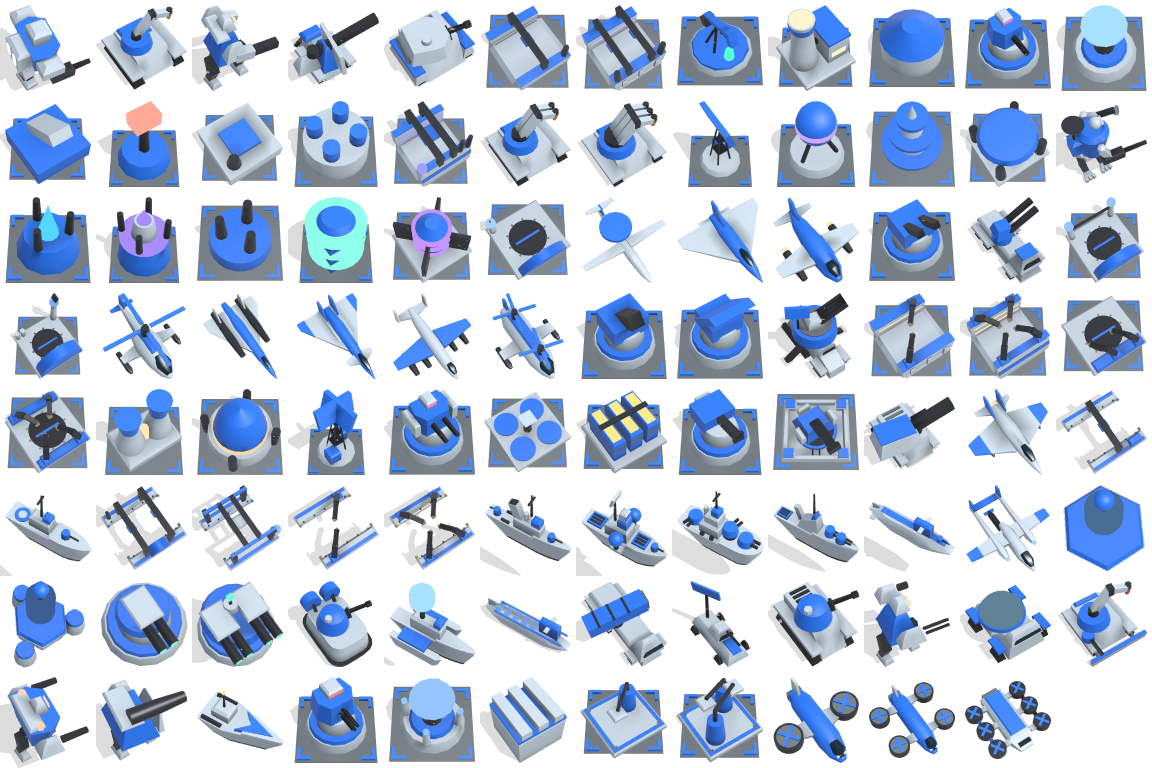
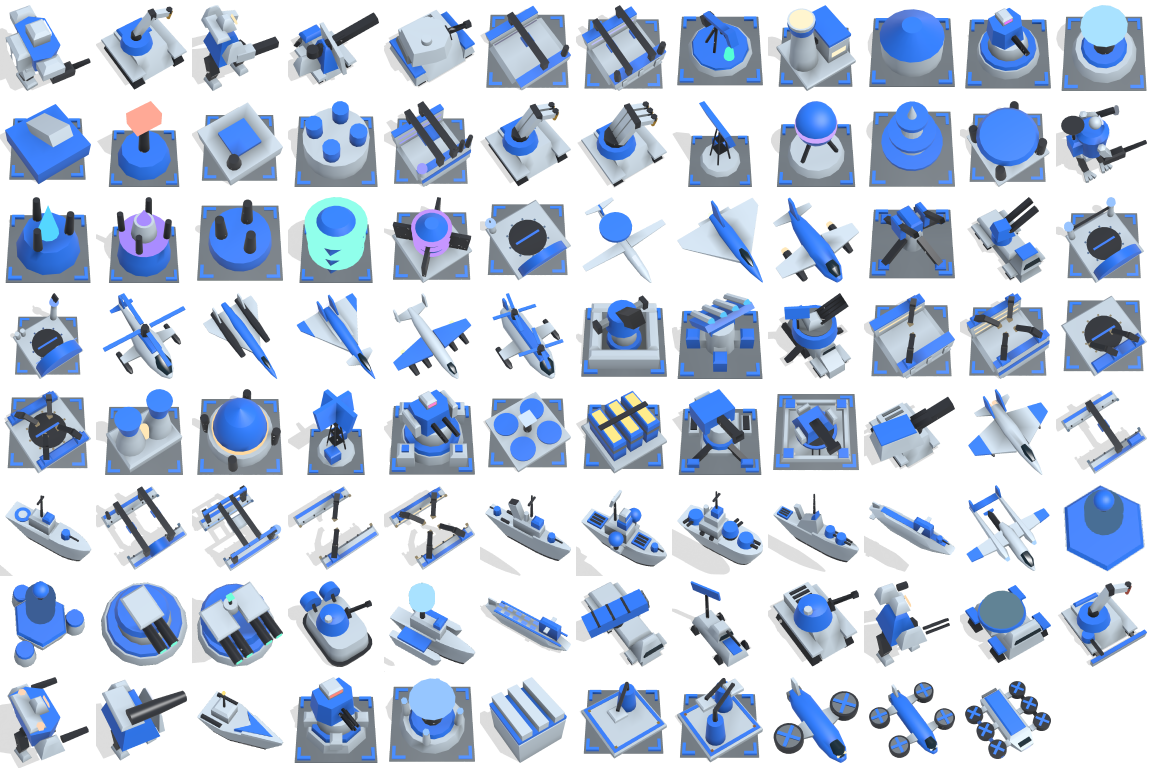
Give each kind of defense a mount of its own
Seven defenses stood on the same round ring under a similar boxy gun house,
told apart only by their barrels: from the game's camera, ground defense,
anti-air, and artillery read as one thing. Each now has its own mount, so its
outline says what it is:

- Point defense keeps the ring; T2 adds a bastion at each corner, and the T3
  heavy point defense an eight-sided bunker under it, buttressed on each side.
- The T1 anti-air gun stands on four splayed legs, a cross from above, with a
  slim breech and a long barrel outside each trunnion.
- The flak cannon sits in a square walled pit, with a round gun house and a
  rangefinder's arm out either side.
- The SAM launcher stands on four broad outriggers and carries a rack of four
  missiles.
- The T2 artillery stands on an oblong pad with its trails dug in behind.

By the portrait measure, the T1 point defense and anti-air gun go from the
ninth most alike pair in the game (0.037) to the eighty-sixth (0.092).

diff --git a/src/render/meshes.rs b/src/render/meshes.rs
@@ -276,10 +276,26 @@ pub enum Shape {
     /// The mobile flak's hull, a half-track, long and narrow, with outriggers either side at
     /// mid-length: wheels, a hood, and a cab at the front, and tracks under a bed behind.
     FlakHull,
+    /// What the T1 anti-air gun stands on: a pedestal on four splayed legs, a cross from above
+    /// where a point defense is a ring. Each kind of defense has a mount of its own, so that
+    /// they are told apart by more than their guns.
+    AntiAirMount,
+    /// The T2 point defense's mount: the point defense's ring, with a bastion at each corner.
+    PointDefenseBaseT2,
+    /// The flak cannon's mount: a square pit walled on all four sides, with the gun in the middle.
+    FlakPit,
+    /// The SAM launcher's mount: a hub with a broad outrigger to each side, a plus from above.
+    SamOutriggers,
+    /// The T3 heavy point defense's mount: an eight-sided bunker under the ring, buttressed on
+    /// each side.
+    HeavyDefenseBase,
+    /// The T2 artillery's mount: an oblong firing pad with its trails dug in behind and
+    /// ammunition stacked either side.
+    ArtilleryPad,
 }
 
 impl Shape {
-    pub const ALL: [Self; 128] = [
+    pub const ALL: [Self; 134] = [
         Self::Cube,
         Self::Commander,
         Self::CommanderLegs,
@@ -408,6 +424,12 @@ impl Shape {
         Self::FieldWorkshopT3,
         Self::ArtilleryEmplacement,
         Self::FlakHull,
+        Self::AntiAirMount,
+        Self::PointDefenseBaseT2,
+        Self::FlakPit,
+        Self::SamOutriggers,
+        Self::HeavyDefenseBase,
+        Self::ArtilleryPad,
     ];
     pub const COUNT: usize = Self::ALL.len();
 
@@ -1154,6 +1176,16 @@ impl MeshBuilder {
         });
     }
 
+    /// A point defense's mount: a broad skirt, a team-colored ring, and a pedestal for the gun.
+    fn defense_ring(&mut self) {
+        self.paint(Material::Hull);
+        self.frustum([0.0, 0.0], [-0.5, -0.32], [0.48, 0.44], 8);
+        self.paint(Material::Trim);
+        self.frustum([0.0, 0.0], [-0.32, -0.25], [0.42, 0.4], 8);
+        self.paint(Material::Hull);
+        self.frustum([0.0, 0.0], [-0.25, -0.05], [0.3, 0.24], 8);
+    }
+
     /// A round-ish solid from one radius to another. A top radius of zero makes a cone.
     fn frustum(&mut self, center: [f32; 2], z: [f32; 2], radius: [f32; 2], sides: usize) {
         let sides = round_sides(sides, radius[0].max(radius[1]));
@@ -1646,13 +1678,89 @@ fn build_shape(shape: Shape, mesh: &mut MeshBuilder) {
             mesh.frustum([0.0, 0.0], [0.15, 0.5], [0.46, 0.14], 10);
         }
         // A stepped plinth with a team-colored ring, for turrets to stand on.
-        Shape::PointDefenseBase => {
+        Shape::PointDefenseBase => mesh.defense_ring(),
+        Shape::PointDefenseBaseT2 => {
+            mesh.defense_ring();
+            for (x, y) in [(-0.37_f32, -0.37_f32), (0.37, -0.37), (0.37, 0.37), (-0.37, 0.37)] {
+                mesh.paint(Material::Hull);
+                mesh.bevel([x - 0.12, y - 0.12, -0.5], [x + 0.12, y + 0.12, -0.2], 0.04);
+                mesh.paint(Material::Trim);
+                mesh.block([x - 0.05, y - 0.05, -0.2], [x + 0.05, y + 0.05, -0.16]);
+            }
+        }
+        Shape::HeavyDefenseBase => {
+            let eight = |radius: f32| -> Vec<[f32; 2]> {
+                (0..8).map(|side| { let angle = (side as f32 + 0.5) * std::f32::consts::FRAC_PI_4; [radius * angle.cos(), radius * angle.sin()] }).collect()
+            };
             mesh.paint(Material::Hull);
-            mesh.frustum([0.0, 0.0], [-0.5, -0.32], [0.48, 0.44], 8);
+            mesh.prism(&eight(0.5), [-0.5, -0.32], [1.0, 0.9]);
             mesh.paint(Material::Trim);
-            mesh.frustum([0.0, 0.0], [-0.32, -0.25], [0.42, 0.4], 8);
+            mesh.prism(&eight(0.4), [-0.32, -0.25], [1.0, 0.95]);
             mesh.paint(Material::Hull);
-            mesh.frustum([0.0, 0.0], [-0.25, -0.05], [0.3, 0.24], 8);
+            mesh.frustum([0.0, 0.0], [-0.25, -0.05], [0.3, 0.26], 8);
+            // A buttress against each side.
+            for (x, y) in [(0.0_f32, 0.38_f32), (0.38, 0.0), (0.0, -0.38), (-0.38, 0.0)] {
+                let (half_x, half_y) = if x == 0.0 { (0.09, 0.1) } else { (0.1, 0.09) };
+                mesh.paint(Material::Hull);
+                mesh.bevel([x - half_x, y - half_y, -0.34], [x + half_x, y + half_y, -0.14], 0.04);
+            }
+        }
+        Shape::AntiAirMount => {
+            mesh.paint(Material::Hull);
+            mesh.frustum([0.0, 0.0], [-0.5, -0.05], [0.18, 0.14], 8);
+            for (x, y) in [(-1.0_f32, -1.0_f32), (1.0, -1.0), (1.0, 1.0), (-1.0, 1.0)] {
+                mesh.paint(Material::Metal);
+                mesh.beam([x * 0.1, y * 0.1, -0.2], [x * 0.4, y * 0.4, -0.45], 0.05, 0.04);
+                mesh.paint(Material::Trim);
+                mesh.bevel([x * 0.41 - 0.08, y * 0.41 - 0.08, -0.5], [x * 0.41 + 0.08, y * 0.41 + 0.08, -0.42], 0.02);
+            }
+        }
+        Shape::FlakPit => {
+            // Four walls round a sunken floor.
+            mesh.paint(Material::Hull);
+            mesh.bevel([-0.49, 0.33, -0.5], [0.49, 0.49, -0.18], 0.04);
+            mesh.bevel([-0.49, -0.49, -0.5], [0.49, -0.33, -0.18], 0.04);
+            mesh.bevel([0.33, -0.33, -0.5], [0.49, 0.33, -0.18], 0.04);
+            mesh.bevel([-0.49, -0.33, -0.5], [-0.33, 0.33, -0.18], 0.04);
+            mesh.paint(Material::Panel);
+            mesh.block([-0.33, -0.33, -0.5], [0.33, 0.33, -0.44]);
+            mesh.paint(Material::Trim);
+            mesh.frustum([0.0, 0.0], [-0.44, -0.36], [0.27, 0.25], 8);
+            mesh.paint(Material::Hull);
+            mesh.frustum([0.0, 0.0], [-0.36, -0.05], [0.19, 0.16], 8);
+        }
+        Shape::SamOutriggers => {
+            mesh.paint(Material::Hull);
+            mesh.frustum([0.0, 0.0], [-0.5, -0.05], [0.24, 0.2], 8);
+            for (x, y) in [(0.0_f32, 1.0_f32), (1.0, 0.0), (0.0, -1.0), (-1.0, 0.0)] {
+                // An arm out to a pad, along x or along y.
+                let (across, along) = (0.09, 0.33);
+                let (arm_x, arm_y) = if x == 0.0 { (across, along * 0.5) } else { (along * 0.5, across) };
+                let middle = [x * (0.16 + along * 0.5), y * (0.16 + along * 0.5)];
+                mesh.paint(Material::Hull);
+                mesh.block([middle[0] - arm_x, middle[1] - arm_y, -0.5], [middle[0] + arm_x, middle[1] + arm_y, -0.3]);
+                mesh.paint(Material::Trim);
+                mesh.bevel([x * 0.4 - 0.1 - x.abs() * 0.0, y * 0.4 - 0.1, -0.5], [x * 0.4 + 0.1, y * 0.4 + 0.1, -0.24], 0.03);
+            }
+        }
+        Shape::ArtilleryPad => {
+            mesh.paint(Material::Hull);
+            mesh.bevel([-0.3, -0.3, -0.5], [0.3, 0.46, -0.36], 0.03);
+            mesh.paint(Material::Trim);
+            mesh.frustum([0.0, 0.0], [-0.36, -0.3], [0.27, 0.25], 8);
+            mesh.paint(Material::Hull);
+            mesh.frustum([0.0, 0.0], [-0.3, -0.05], [0.2, 0.17], 8);
+            for x in [-1.0_f32, 1.0] {
+                // A trail back to a spade, and shells stacked beside the pad.
+                mesh.paint(Material::Metal);
+                mesh.beam([x * 0.14, -0.2, -0.34], [x * 0.4, -0.43, -0.45], 0.045, 0.04);
+                mesh.paint(Material::Trim);
+                mesh.bevel([x * 0.4 - 0.09, -0.5, -0.5], [x * 0.4 + 0.09, -0.4, -0.36], 0.02);
+                mesh.paint(Material::Hull);
+                mesh.bevel([x * 0.41 - 0.08, 0.06, -0.5], [x * 0.41 + 0.08, 0.4, -0.36], 0.02);
+                mesh.paint(Material::Metal);
+                mesh.block([x * 0.41 - 0.05, 0.1, -0.36], [x * 0.41 + 0.05, 0.36, -0.33]);
+            }
         }
         // A team-colored turret with a sloped front, a long gun, and a sensor with a glowing eye.
         // A fast buggy, twice as long as it is wide, whose team color is the radar dish turning
@@ -2211,18 +2319,31 @@ fn build_shape(shape: Shape, mesh: &mut MeshBuilder) {
             mesh.body(0.0, &[[0.32, 0.03, 0.015, 0.05], [0.39, 0.04, 0.025, 0.045], [0.45, 0.02, 0.01, 0.025]], 6);
             mesh.paint(Material::Metal);
         }
+        // A round gun house with one fat barrel, and a rangefinder's arm out either side.
         Shape::FlakGun => {
-            mesh.block([-0.28, -0.28, -0.1], [0.28, 0.2, 0.2]);
+            mesh.frustum([0.0, -0.04], [-0.1, 0.18], [0.25, 0.2], 8);
+            mesh.paint(Material::Hull);
+            mesh.block([-0.38, -0.12, 0.02], [0.38, -0.04, 0.1]);
             mesh.paint(Material::Metal);
-            mesh.moving(motion::RECOIL, [0.0, -0.05, 0.1], |mesh| mesh.beam([0.0, -0.05, 0.1], [0.0, 0.28, 0.38], 0.1, 0.1));
-            mesh.flash([0.0, 0.3, 0.4], 0.08);
+            for x in [-0.38_f32, 0.38] {
+                mesh.block([x - 0.035, -0.15, -0.01], [x + 0.035, -0.01, 0.13]);
+            }
+            mesh.moving(motion::RECOIL, [0.0, -0.02, 0.1], |mesh| mesh.beam([0.0, -0.02, 0.1], [0.0, 0.3, 0.38], 0.095, 0.095));
+            mesh.flash([0.0, 0.32, 0.4], 0.08);
         }
+        // A turntable carrying a raised rack of four missiles, side by side.
         Shape::SamLauncher => {
-            mesh.block([-0.25, -0.25, -0.1], [0.25, 0.2, 0.15]);
+            mesh.bevel([-0.2, -0.26, -0.1], [0.2, 0.08, 0.1], 0.03);
             mesh.cuboid(
-                [Vec3::new(-0.3, -0.2, 0.05), Vec3::new(0.3, -0.2, 0.05), Vec3::new(0.3, -0.05, 0.05), Vec3::new(-0.3, -0.05, 0.05)],
-                [Vec3::new(-0.3, 0.2, 0.45), Vec3::new(0.3, 0.2, 0.45), Vec3::new(0.3, 0.35, 0.45), Vec3::new(-0.3, 0.35, 0.45)],
+                [Vec3::new(-0.36, -0.24, 0.04), Vec3::new(0.36, -0.24, 0.04), Vec3::new(0.36, -0.16, 0.0), Vec3::new(-0.36, -0.16, 0.0)],
+                [Vec3::new(-0.36, 0.2, 0.36), Vec3::new(0.36, 0.2, 0.36), Vec3::new(0.36, 0.28, 0.32), Vec3::new(-0.36, 0.28, 0.32)],
             );
+            for x in [-0.27_f32, -0.09, 0.09, 0.27] {
+                mesh.paint(Material::Hull);
+                mesh.body(x, &[[-0.26, 0.05, 0.05, 0.11], [0.2, 0.05, 0.05, 0.41]], 6);
+                mesh.paint(Material::Glow);
+                mesh.body(x, &[[0.2, 0.05, 0.05, 0.41], [0.3, 0.0, 0.0, 0.475]], 6);
+            }
         }
         // A long barrel laid nearly flat, half the plot's width out from a housing at its back to
         // its edge, with a muzzle brake, and an ammunition box behind.
@@ -3073,13 +3194,19 @@ fn build_shape(shape: Shape, mesh: &mut MeshBuilder) {
             mesh.paint(Material::Glow);
             mesh.block([-0.1, -0.1, 0.4], [0.1, 0.1, 0.5]);
         }
+        // A slim breech between two trunnion plates, with a long barrel outside each, raised to
+        // the sky: an H from above, where a point defense is a block with its gun down the middle.
         Shape::AntiAirGun => {
-            mesh.block([-0.25, -0.25, -0.1], [0.25, 0.2, 0.22]);
-            mesh.paint(Material::Metal);
-            for x in [-0.12_f32, 0.12] {
-                mesh.moving(motion::RECOIL, [x, -0.05, 0.1], |mesh| mesh.beam([x, -0.05, 0.1], [x, 0.38, 0.44], 0.05, 0.05));
-                mesh.flash([x, 0.38, 0.44], 0.05);
+            mesh.bevel([-0.1, -0.24, -0.1], [0.1, 0.12, 0.16], 0.03);
+            for x in [-0.2_f32, 0.2] {
+                mesh.paint(Material::Trim);
+                mesh.bevel([x - 0.045, -0.16, -0.1], [x + 0.045, 0.08, 0.22], 0.02);
+                mesh.paint(Material::Metal);
+                mesh.moving(motion::RECOIL, [x, -0.12, 0.08], |mesh| mesh.beam([x, -0.2, 0.02], [x, 0.4, 0.44], 0.035, 0.035));
+                mesh.flash([x, 0.41, 0.45], 0.045);
             }
+            mesh.paint(Material::Hull);
+            mesh.block([-0.2, -0.1, 0.02], [0.2, -0.02, 0.08]);
         }
         Shape::RigYard => {
             mesh.paint(Material::Hull);

diff --git a/src/render/instances.rs b/src/render/instances.rs
@@ -372,7 +372,7 @@ pub fn unit_look(key: &str) -> UnitLook {
         "t3_heavy_walker" => UnitLook { base: Some(Shape::BotLegs), ..look(Shape::HeavyWalker, Some([0.58, 0.46, 0.36]), 1.0) },
         "t3_siege_walker" => UnitLook { base: Some(Shape::BotLegs), ..look(Shape::SiegeWalker, Some([0.70, 0.70, 0.75]), 1.0) },
         "t2_torpedo_boat" => UnitLook { length: 24.0, ..look(Shape::TorpedoBoat, Some([0.90, 0.78, 0.30]), 0.5) },
-        "t3_heavy_point_defense" => UnitLook { base: Some(Shape::PointDefenseBase), ..look(Shape::HeavyPointDefense, Some([0.95, 0.35, 0.30]), 1.0) },
+        "t3_heavy_point_defense" => UnitLook { base: Some(Shape::HeavyDefenseBase), ..look(Shape::HeavyPointDefense, Some([0.95, 0.35, 0.30]), 1.0) },
         "t3_heavy_shield" => look(Shape::ShieldGeneratorT3, Some([0.45, 0.70, 1.00]), 0.9),
         "wall" => look(Shape::Wall, Some([0.70, 0.70, 0.70]), 0.9),
         "field_workshop" => look(Shape::FieldWorkshop, Some([0.95, 0.75, 0.30]), 0.8),
@@ -391,7 +391,7 @@ pub fn unit_look(key: &str) -> UnitLook {
         "power_generator" => look(Shape::Generator, Some([1.00, 0.95, 0.75]), 1.2),
         "mass_storage" => look(Shape::Storage, Some([0.60, 0.90, 0.60]), 0.65),
         "energy_storage" => look(Shape::EnergyStorage, Some([1.00, 0.90, 0.40]), 0.65),
-        "t2_artillery" => UnitLook { base: Some(Shape::PointDefenseBase), ..look(Shape::ArtilleryGun, Some([0.70, 0.62, 0.50]), 1.0) },
+        "t2_artillery" => UnitLook { base: Some(Shape::ArtilleryPad), ..look(Shape::ArtilleryGun, Some([0.70, 0.62, 0.50]), 1.0) },
         "t3_artillery" => UnitLook { base: Some(Shape::ArtilleryEmplacement), ..look(Shape::ArtilleryGunT3, Some([0.46, 0.40, 0.34]), 0.6) },
         "t3_mobile_artillery" => UnitLook { base: Some(Shape::CasemateHull), length: 30.0, ..look(Shape::HeavyArtillery, Some([0.55, 0.45, 0.35]), 1.0) },
         "radar" => look(Shape::Radar, Some([0.40, 0.90, 0.55]), 1.3),
@@ -434,7 +434,7 @@ pub fn unit_look(key: &str) -> UnitLook {
         "power_generator_t2" => look(Shape::GeneratorT2, Some([1.00, 0.88, 0.62]), 1.0),
         "power_generator_t3" => look(Shape::GeneratorT3, Some([1.00, 0.80, 0.50]), 0.9),
         "radar_t2" => look(Shape::RadarT2, Some([0.50, 0.95, 0.75]), 1.45),
-        "t2_point_defense" => UnitLook { base: Some(Shape::PointDefenseBase), ..look(Shape::PointDefenseT2, Some([0.85, 0.30, 0.65]), 1.0) },
+        "t2_point_defense" => UnitLook { base: Some(Shape::PointDefenseBaseT2), ..look(Shape::PointDefenseT2, Some([0.85, 0.30, 0.65]), 1.0) },
         "air_factory_t2" => look(Shape::AirFactoryT2, Some([0.30, 0.45, 0.65]), 0.65),
         "air_factory_t3" => look(Shape::AirFactoryT3, Some([0.15, 0.25, 0.45]), 0.8),
         "t2_gunship" => look(Shape::Gunship, Some([0.52, 0.66, 0.46]), 0.6),
@@ -444,13 +444,13 @@ pub fn unit_look(key: &str) -> UnitLook {
         // The largest aircraft with wings, longer and wider than even the heavy transport.
         "t3_strategic_bomber" => UnitLook { length: 44.0, ..look(Shape::StrategicBomber, Some([0.50, 0.52, 0.38]), 0.5) },
         "t2_fighter_bomber" => look(Shape::FighterBomber, Some([0.85, 0.70, 0.55]), 0.55),
-        "t2_flak" => UnitLook { base: Some(Shape::PointDefenseBase), ..look(Shape::FlakGun, Some([0.35, 0.75, 0.95]), 1.0) },
+        "t2_flak" => UnitLook { base: Some(Shape::FlakPit), ..look(Shape::FlakGun, Some([0.35, 0.75, 0.95]), 1.0) },
         "t2_mobile_flak" => UnitLook { base: Some(Shape::FlakHull), length: 23.0, ..look(Shape::FlakTurret, Some([0.22, 0.70, 0.98]), 1.0) },
-        "t3_sam" => UnitLook { base: Some(Shape::PointDefenseBase), ..look(Shape::SamLauncher, Some([0.15, 0.72, 1.00]), 1.1) },
+        "t3_sam" => UnitLook { base: Some(Shape::SamOutriggers), ..look(Shape::SamLauncher, Some([0.15, 0.72, 1.00]), 1.1) },
         "t1_air_scout" => look(Shape::Scout, Some([0.85, 0.90, 0.95]), 0.5),
         "t1_interceptor" => look(Shape::Aircraft, Some([0.86, 0.88, 0.78]), 0.5),
         "t1_bomber" => look(Shape::Bomber, Some([0.82, 0.72, 0.52]), 0.6),
-        "t1_aa_turret" => UnitLook { base: Some(Shape::PointDefenseBase), ..look(Shape::AntiAirGun, Some([0.35, 0.75, 0.95]), 0.9) },
+        "t1_aa_turret" => UnitLook { base: Some(Shape::AntiAirMount), ..look(Shape::AntiAirGun, Some([0.35, 0.75, 0.95]), 0.9) },
         "t1_mobile_aa" => UnitLook { base: Some(Shape::WheeledHull), length: 19.0, ..look(Shape::TruckAntiAir, Some([0.30, 0.78, 0.98]), 1.0) },
         "t1_point_defense" => UnitLook { base: Some(Shape::PointDefenseBase), ..look(Shape::PointDefense, Some([0.75, 0.25, 0.85]), 0.9) },
         _ => look(Shape::Cube, None, 0.6),
